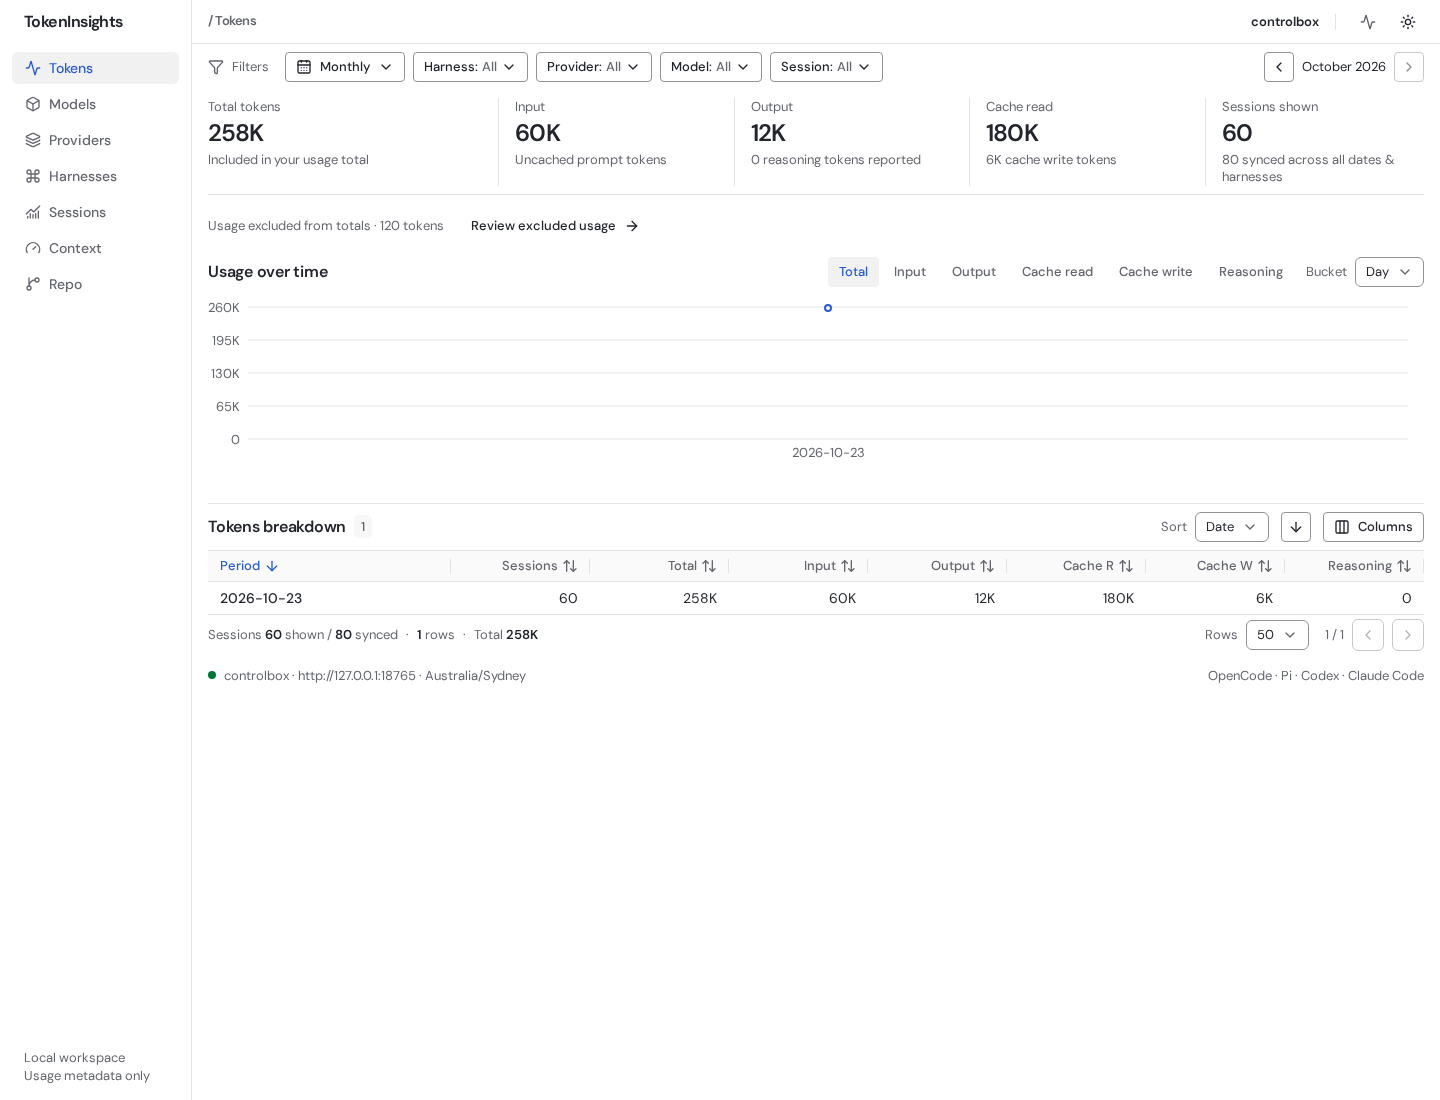
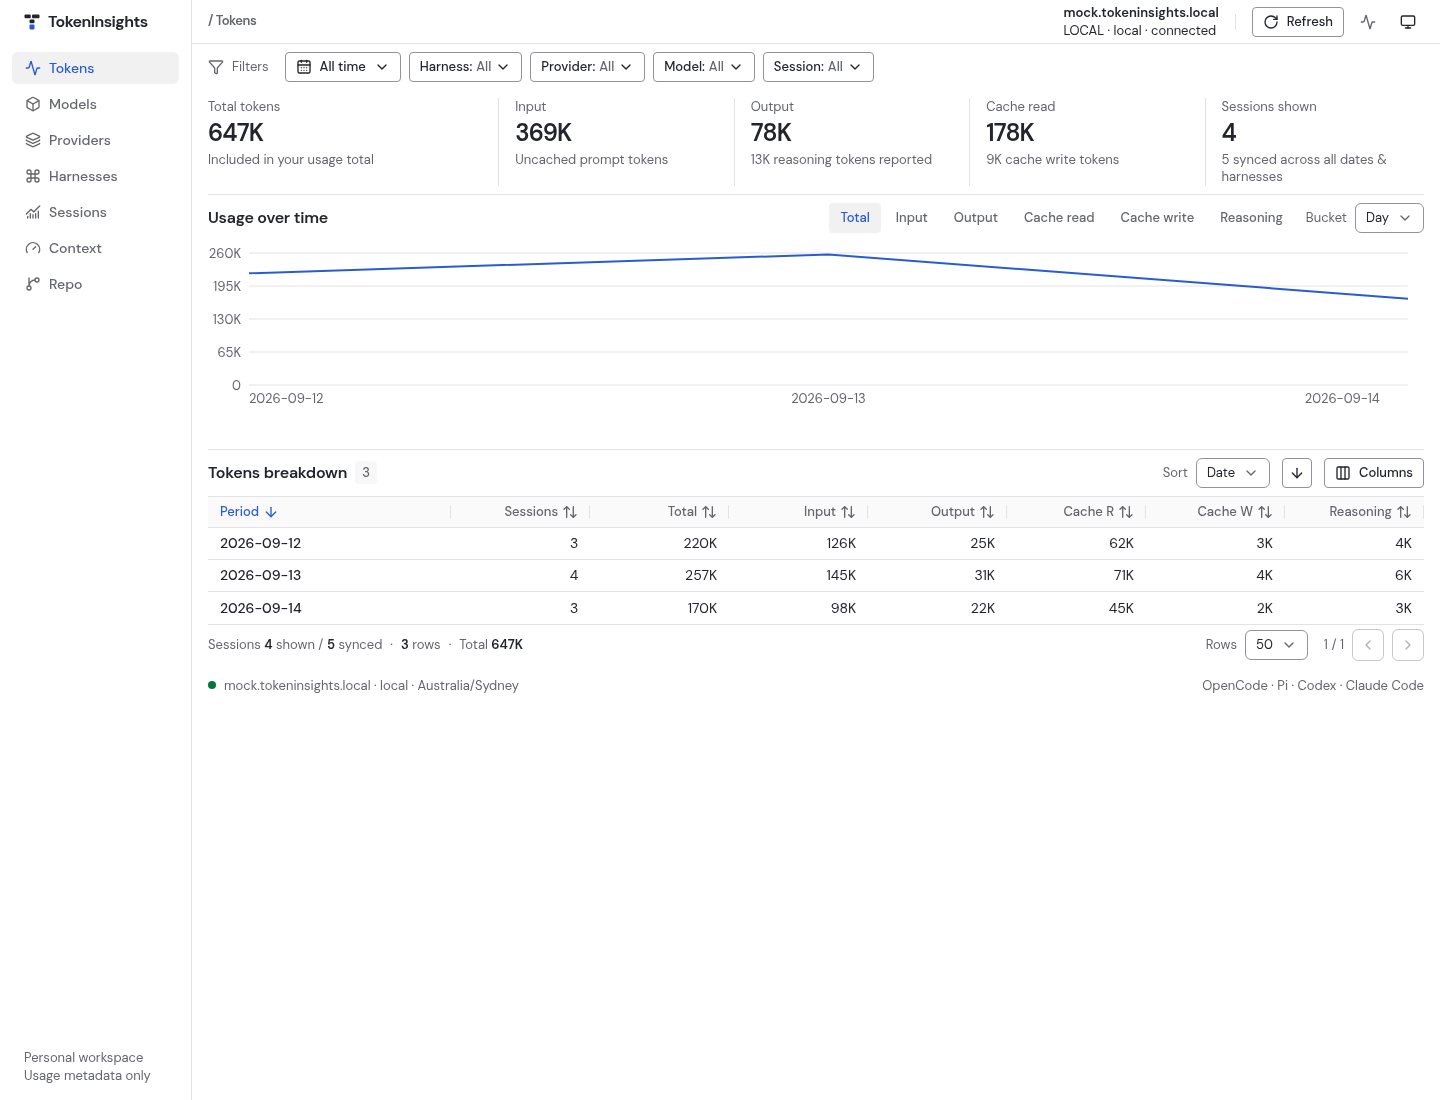
feat: add Split T brand mark across products

diff --git a/packages/dashboard/src/ui/patterns/brand.tsx b/packages/dashboard/src/ui/patterns/brand.tsx
@@ -1,10 +1,16 @@
-/** TokenInsights text wordmark in its single brand weight. */
+/** TokenInsights Split T mark and wordmark in its single brand weight. */
 export function Brand() {
   return (
     <div
       data-slot="brand"
-      className="flex items-center text-title font-bold tracking-tight whitespace-nowrap"
+      className="flex items-center gap-1.5 text-title font-bold tracking-tight whitespace-nowrap"
     >
+      <svg viewBox="0 0 32 32" aria-hidden="true" className="-ml-0.5 size-5 shrink-0 fill-current">
+        <rect x="4" y="4" width="10" height="6" rx="1.5" />
+        <rect x="16" y="4" width="12" height="6" rx="1.5" />
+        <rect x="12" y="12" width="8" height="6" rx="1.5" />
+        <rect x="12" y="20" width="8" height="8" rx="1.5" className="fill-action" />
+      </svg>
       <span>TokenInsights</span>
     </div>
   )

diff --git a/tools/build/test/brand-assets.test.ts b/tools/build/test/brand-assets.test.ts
@@ -1,0 +1,22 @@
+import assert from 'node:assert/strict'
+import { readFileSync } from 'node:fs'
+import test from 'node:test'
+
+import { workspacePath } from '../src/workspace.ts'
+
+const copies = [
+  ['packages/web/public/favicon.svg', 'favicon.svg'],
+  ['packages/web/public/favicon.ico', 'favicon.ico'],
+  ['docs-website/public/favicon.svg', 'favicon.svg'],
+  ['docs-website/public/lockup-light.svg', 'lockup-light.svg'],
+  ['docs-website/public/lockup-dark.svg', 'lockup-dark.svg'],
+  ['docs-website/public/social-preview.png', 'social-preview.png'],
+]
+
+for (const [copy = '', source = ''] of copies) {
+  void test(`${copy} matches assets/brand/${source}`, () => {
+    assert.ok(
+      readFileSync(workspacePath(copy)).equals(readFileSync(workspacePath('assets/brand', source))),
+    )
+  })
+}

diff --git a/tools/build/test/install-script.test.ts b/tools/build/test/install-script.test.ts
@@ -293,7 +293,11 @@ void test('desktop default supports main and registers its desktop entry', (t) =
   const result = f.run('install.sh', ['--channel=main'])
   assert.equal(result.status, 0, result.stderr)
   assert.equal(readFileSync(join(f.installed('desktop'), '.channel'), 'utf8'), 'main\n')
-  assert.ok(existsSync(join(f.home, '.local/share/applications/tokeninsights-desktop.desktop')))
+  const entry = readFileSync(
+    join(f.home, '.local/share/applications/tokeninsights-desktop.desktop'),
+    'utf8',
+  )
+  assert.ok(entry.includes(`Icon=${join(f.installed('desktop'), 'tokeninsights-desktop.png')}\n`))
 })
 void test('upgrades retain the valid launcher without a remove-and-republish gap', (t) => {
   const f = fixture(t)

diff --git a/docs-website/vocs.config.ts b/docs-website/vocs.config.ts
@@ -3,6 +3,10 @@ import { defineConfig } from 'vocs/config'
 export default defineConfig({
   title: 'TokenInsights',
   description: 'Track token usage across OpenCode, Pi, Codex, and Claude Code.',
+  baseUrl: 'https://tokeninsights.hoplabs.dev',
+  logoUrl: { light: '/lockup-light.svg', dark: '/lockup-dark.svg' },
+  iconUrl: '/favicon.svg',
+  ogImageUrl: 'https://tokeninsights.hoplabs.dev/social-preview.png',
   renderStrategy: 'full-static',
   socials: [{ icon: 'github', link: 'https://github.com/flexdinesh/tokeninsights' }],
   sidebar: [

diff --git a/packages/web/index.html b/packages/web/index.html
@@ -5,6 +5,8 @@
     <meta name="viewport" content="width=device-width, initial-scale=1.0" />
     <meta name="theme-color" content="#fafafa" media="(prefers-color-scheme: light)" />
     <meta name="theme-color" content="#0a0a0a" media="(prefers-color-scheme: dark)" />
+    <link rel="icon" href="/favicon.ico" sizes="32x32" />
+    <link rel="icon" href="/favicon.svg" type="image/svg+xml" />
     <title>TokenInsights</title>
   </head>
   <body>

diff --git a/tools/build/src/build-desktop.ts b/tools/build/src/build-desktop.ts
@@ -91,7 +91,10 @@ export async function buildDesktop(
           `$1${desktopBinary}`,
         ),
       )
-    } else await cp(join(built, desktopBinary), join(output, desktopBinary))
+    } else {
+      await cp(join(built, desktopBinary), join(output, desktopBinary))
+      await cp(join(built, `${desktopBinary}.png`), join(output, `${desktopBinary}.png`))
+    }
   } finally {
     await rm(temporary, { recursive: true, force: true })
   }

diff --git a/DESIGN.md b/DESIGN.md
@@ -229,8 +229,8 @@ supporting regions, precise typography, and restrained blue actions. Its dark
 theme uses neutral charcoal and soft white ink with the same hierarchy.
 
 Locally bundled DM Sans, tabular numerals, and compact section spacing support
-repeated inspection. Preserve the TokenInsights text wordmark, offline assets, explicit
-states, and existing analytical behavior.
+repeated inspection. Preserve the Split T mark and TokenInsights wordmark, offline
+assets, explicit states, and existing analytical behavior.
 
 This browser contract derives from the token layers and primitives in
 [`packages/dashboard/src/ui/`](packages/dashboard/src/ui/). Frontmatter colors record each
@@ -302,7 +302,8 @@ Neutral surfaces carry the workspace; one quiet blue carries every interaction.
 
 **The Neutral Surface Rule.** Keep large surfaces white or neutral gray in light
 mode and neutral charcoal in dark mode. Blue belongs to feedback and plotted
-data; readout values remain neutral.
+data; readout values remain neutral. The brand mark's single `action` token is the
+only decorative exception.
 
 **The Selection Rule.** Every selected state is the `selected` tint with
 `selected-ink` and no border: navigation, segmented controls, date presets,
@@ -327,7 +328,8 @@ reads as selected.
 - **Body** (400, 0.875rem, 1.43): explanations, table cells and controls.
 - **Label** (400, 0.8125rem, 1.33): captions, axes, compact controls and metadata.
 
-The brand uses one weight (650) across the full TokenInsights name. Field
+The brand pairs the Split T mark (`Brand`; sources in `assets/brand/`) with one
+weight (650) across the full TokenInsights name. Field
 labels use body weight 500. Fields grow to the title size below 38rem so mobile
 browsers do not zoom on focus.
 

diff --git a/PRODUCT.md b/PRODUCT.md
@@ -71,8 +71,9 @@ require a separate authenticated harness export or realtime hooks.
 ## Brand Commitments
 
 The product name is **TokenInsights**; the public command is `tokeninsights`.
-Use the established domain terminology and text wordmark. The incumbent browser
-identity is recorded separately in `DESIGN.md`.
+Use the established domain terminology, the Split T mark and the TokenInsights
+wordmark. Brand sources live in `assets/brand/`; the terminal stays text-only. The
+incumbent browser identity is recorded separately in `DESIGN.md`.
 
 ## Evidence on Hand
 

diff --git a/README.md b/README.md
@@ -1,4 +1,4 @@
-# TokenInsights
+# <picture><source media="(prefers-color-scheme: dark)" srcset="assets/brand/lockup-dark.svg"><img src="assets/brand/lockup-light.svg" alt="TokenInsights" height="40"></picture>
 
 Local token usage dashboard for OpenCode, Pi, Codex, and Claude Code.
 
